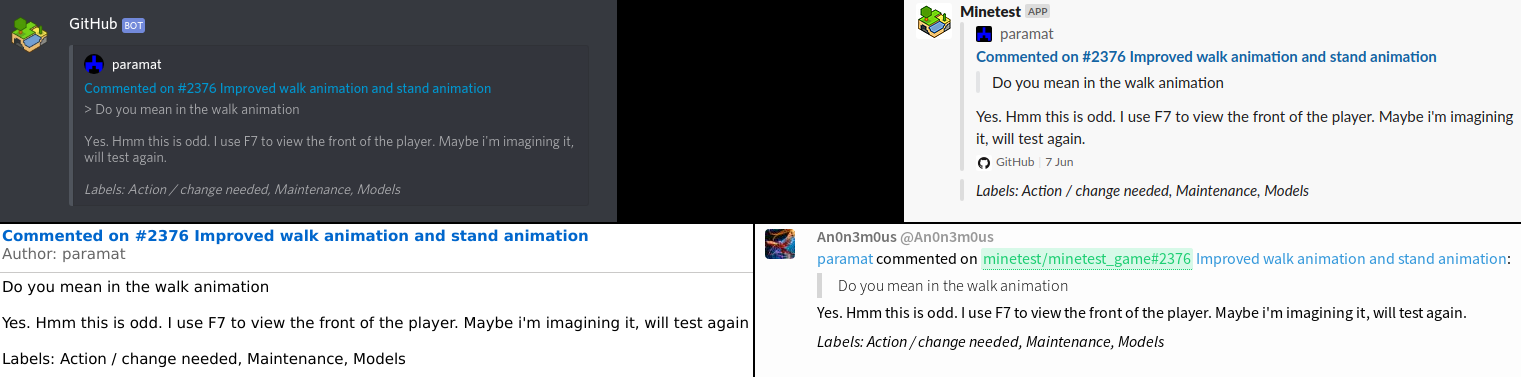
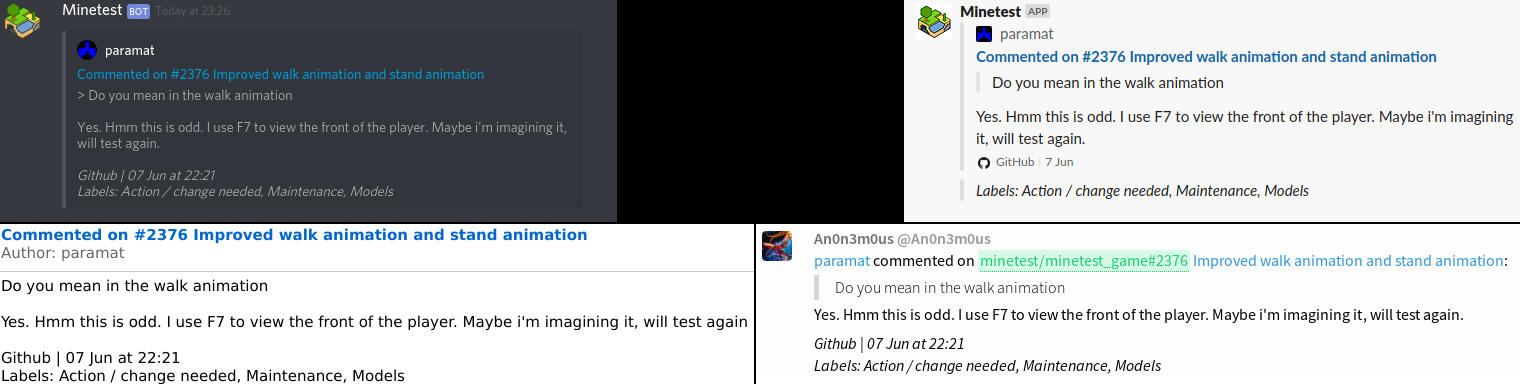
Add timestamp

diff --git a/repoActivity.py b/repoActivity.py
@@ -59,8 +59,8 @@ rss = """<rss version="2.0">
 """
 
 id = 0
-# [0]AuthorName, [1]AuthorLink, [2]AuthorIcon, ([3]Action, [4]ID, [5]Title), [6]TitleLink, ([7]Text, [[8][0]labelsSlack, [8][1]labelsDiscord), [9]TimeCreated, [10]Color
-message = ["", "", "", "", "", "", "", "", ["", ""], 0, ""]
+# [0]AuthorName, [1]AuthorLink, [2]AuthorIcon, ([3]Action, [4]ID, [5]Title), [6]TitleLink, ([7]Text, [[8][0]labelsSlack, [8][1]labelsDiscord), ([9][0]TimestampCreated, [9][1]TimeCreated), [10]Color
+message = ["", "", "", "", "", "", "", "", ["", ""], [0, ""], ""]
 log = 0
 timeGithub = 0
 timeFile = 0
@@ -130,10 +130,11 @@ while True:
 				for i in range(len(issue['labels'])):
 					message[8][0] = message[8][0] + issue['labels'][i]['name'] + ", "
 					message[8][1] = message[8][1] + issue['labels'][i]['name'] + ", "
-				message[8][0] = repr("\\n\\n")[1:-1] + message[8][0][:-2] + "_"
-				message[8][1] = repr("\\n\\n")[1:-1] + message[8][1][:-2] + "*"
+				message[8][0] = repr("\\n")[1:-1] + message[8][0][:-2] + "_"
+				message[8][1] = repr("\\n")[1:-1] + message[8][1][:-2] + "*"
 
-			message[9] = int(time.mktime(datetime.datetime.strptime(issue['created_at'][:-1], "%Y-%m-%dT%H:%M:%S").timetuple()))
+			message[9][0] = int(time.mktime(datetime.datetime.strptime(issue['created_at'][:-1], "%Y-%m-%dT%H:%M:%S").timetuple()))
+			message[9][1] = datetime.datetime.strptime(issue['created_at'][:-1], "%Y-%m-%dT%H:%M:%S").strftime('+%d %b at %H:%M')
 
 		if "IssueCommentEvent" in data[0]['type'] and data[0]['id'] != id and data[0]['payload']['comment']:
 			id = data[0]['id']
@@ -171,10 +172,11 @@ while True:
 				for i in range(len(issue['labels'])):
 					message[8][0] = message[8][0] + issue['labels'][i]['name'] + ", "
 					message[8][1] = message[8][1] + issue['labels'][i]['name'] + ", "
-				message[8][0] = repr("\\n\\n")[1:-1] + message[8][0][:-2] + "_"
-				message[8][1] = repr("\\n\\n")[1:-1] + message[8][1][:-2] + "*"
+				message[8][0] = repr("\\n")[1:-1] + message[8][0][:-2] + "_"
+				message[8][1] = repr("\\n")[1:-1] + message[8][1][:-2] + "*"
 
-			message[9] = int(time.mktime(datetime.datetime.strptime(comment['created_at'][:-1], "%Y-%m-%dT%H:%M:%S").timetuple()))
+			message[9][0] = int(time.mktime(datetime.datetime.strptime(comment['created_at'][:-1], "%Y-%m-%dT%H:%M:%S").timetuple()))
+			message[9][1] = datetime.datetime.strptime(comment['created_at'][:-1], "%Y-%m-%dT%H:%M:%S").strftime('%d %b at %H:%M')
 
 		if "PullRequestEvent" in data[0]['type'] and data[0]['id'] != id:
 			id = data[0]['id']
@@ -225,10 +227,11 @@ while True:
 				for i in range(len(pull['labels'])):
 					message[8][0] = message[8][0] + pull['labels'][i]['name'] + ", "
 					message[8][1] = message[8][1] + pull['labels'][i]['name'] + ", "
-				message[8][0] = repr("\\n\\n")[1:-1] + message[8][0][:-2] + "_"
-				message[8][1] = repr("\\n\\n")[1:-1] + message[8][1][:-2] + "*"
+				message[8][0] = repr("\\n")[1:-1] + message[8][0][:-2] + "_"
+				message[8][1] = repr("\\n")[1:-1] + message[8][1][:-2] + "*"
 
-			message[9] = int(time.mktime(datetime.datetime.strptime(pull['created_at'][:-1], "%Y-%m-%dT%H:%M:%S").timetuple()))
+			message[9][0] = int(time.mktime(datetime.datetime.strptime(pull['created_at'][:-1], "%Y-%m-%dT%H:%M:%S").timetuple()))
+			message[9][1] = datetime.datetime.strptime(pull['created_at'][:-1], "%Y-%m-%dT%H:%M:%S").strftime('%d %b at %H:%M')
 
 		if "PullRequestReviewCommentEvent" in data[0]['type'] and data[0]['id'] != id and data[0]['payload']['comment']:
 			id = data[0]['id']
@@ -267,10 +270,11 @@ while True:
 				for i in range(len(pull['labels'])):
 					message[8][0] = message[8][0] + pull['labels'][i]['name'] + ", "
 					message[8][1] = message[8][1] + pull['labels'][i]['name'] + ", "
-				message[8][0] = repr("\\n\\n")[1:-1] + message[8][0][:-2] + "_"
-				message[8][1] = repr("\\n\\n")[1:-1] + message[8][1][:-2] + "*"
+				message[8][0] = repr("\\n")[1:-1] + message[8][0][:-2] + "_"
+				message[8][1] = repr("\\n")[1:-1] + message[8][1][:-2] + "*"
 
-			message[9] = int(time.mktime(datetime.datetime.strptime(pull['created_at'][:-1], "%Y-%m-%dT%H:%M:%S").timetuple()))
+			message[9][0] = int(time.mktime(datetime.datetime.strptime(review['created_at'][:-1], "%Y-%m-%dT%H:%M:%S").timetuple()))
+			message[9][1] = datetime.datetime.strptime(review['created_at'][:-1], "%Y-%m-%dT%H:%M:%S").strftime('%d %b at %H:%M')
 
 		if "PushEvent" in data[0]['type'] and data[0]['id'] != id:
 			id = data[0]['id']
@@ -291,7 +295,8 @@ while True:
 				commit['message'] = re.sub("#[0-9][0-9]*", code, commit['message'], 1)
 
 			message[7] = repr(str(commit['message']))
-			message[9] = int(time.mktime(datetime.datetime.strptime(event['created_at'][:-1], "%Y-%m-%dT%H:%M:%S").timetuple()))
+			message[9][0] = int(time.mktime(datetime.datetime.strptime(event['created_at'][:-1], "%Y-%m-%dT%H:%M:%S").timetuple()))
+			message[9][1] = datetime.datetime.strptime(event['created_at'][:-1], "%Y-%m-%dT%H:%M:%S").strftime('%d %b at %H:%M')
 
 	slackJson = re.sub("\"author_name\": \"AUTHORNAME\"", "\"author_name\": \"" + message[0] + "\"", slackJson)
 	slackJson = re.sub("\"author_link\": \"AUTHORLINK\"", "\"author_link\": \"" + message[1] + "\"", slackJson)
@@ -304,7 +309,7 @@ while True:
 	else:
 		slackJson = re.sub("\"text\": \"TEXT\"", "\"text\": \"" + repr(message[7])[2:-2].replace("'", "\u0027").replace("No description provided.", "_No description provided._") + "\"", slackJson)
 		slackJson = re.sub("\"text\": \"LABELS\"", "\"text\": \"" + str(message[8][0]) + "\"", slackJson)
-	slackJson = re.sub("\"ts\": TS", "\"ts\": " + str(message[9]), slackJson)
+	slackJson = re.sub("\"ts\": TS", "\"ts\": " + str(message[9][0]), slackJson)
 	slackJson = re.sub("\"color\": \"COLOR\"", "\"color\": \"" + str(message[10]) + "\"", slackJson)
 	slackJson = slackJson.replace("\n", "")
 
@@ -313,13 +318,16 @@ while True:
 	discordJson = re.sub("\"title\": \"TITLE\"", "\"title\": \"" + message[3] + message[4] + message[5] + "\"", discordJson)
 	discordJson = re.sub("\"url\": \"URL\"", "\"url\": \"" + message[6] + "\"", discordJson)
 	if ("IssuesEvent" in data[0]['type'] or "PullRequestEvent" in data[0]['type']) and (data[0]['payload']['action'] == "reopened" or data[0]['payload']['action'] == "closed"):
-		discordJson = re.sub("\"description\": \"DESC\"", "\"description\": \"" + str(message[8][1]) + "\"", discordJson)
+		discordJson = re.sub("\"description\": \"DESC\"", "\"description\": \"" + "*Github | " + message[9][1] + "*" + str(message[8][1]) + "\"", discordJson)
 	else:
-		discordJson = re.sub("\"description\": \"DESC\"", "\"description\": \"" + repr(message[7])[2:-2].replace("'", "\u0027").replace("No description provided.", "*No description provided.*") + str(message[8][1]) + "\"", discordJson)
+		discordJson = re.sub("\"description\": \"DESC\"", "\"description\": \"" + repr(message[7])[2:-2].replace("'", "\u0027").replace("No description provided.", "*No description provided.*") + "\\\\n\\\\n*Github | " + message[9][1] + "*" + str(message[8][1]) + "\"", discordJson)
 	discordJson = discordJson.replace("\n", "")
 
-	gitterJson = re.sub("\"text\":\"\[TITLE\]", "\"text\":\"[" + message[0] + "](" + message[1] + ") " + message[3].lower() + " [" + message[4][1:-1] + "](" + re.findall("https://github.com/minetest/minetest_game/[A-z]*/[0-9][0-9]*", message[6])[0] + ") [" + message[5] + "](" + message[6] + ")", gitterJson)
-	gitterJson = re.sub("TEXT", repr(message[7])[2:-2].replace("'", "\u0027").replace("No description provided.", "_No description provided._") + str(message[8][1]), gitterJson)
+	gitterJson = re.sub("\"text\":\"\[TITLE\]", "\"text\":\"[" + message[0] + "](" + message[1] + ") " + message[3].lower() + " [" + message[4][1:-1] + "](" + re.findall("https://github.com/" + repo + "/[A-z]*/[0-9][0-9]*", message[6])[0] + ") [" + message[5] + "](" + message[6] + ")", gitterJson)
+	if ("IssuesEvent" in data[0]['type'] or "PullRequestEvent" in data[0]['type']) and (data[0]['payload']['action'] == "reopened" or data[0]['payload']['action'] == "closed"):
+		gitterJson = re.sub("TEXT", "\\\\n\\\\n*Github | " + message[9][1] + "*" + str(message[8][1]), gitterJson)
+	else:
+		gitterJson = re.sub("TEXT", repr(message[7])[2:-2].replace("'", "\u0027").replace("No description provided.", "_No description provided._") + "\\\\n\\\\n*Github | " + message[9][1] + "*" + str(message[8][1]), gitterJson)
 	gitterJson = gitterJson.replace("\n", "")
 
 	rss = re.sub("<title>REPOTITLE</title>", "<title>" + repo + "</title>", rss)
@@ -327,9 +335,9 @@ while True:
 	rss = re.sub("<link>REPOLINK</link>", "<link>https://github.com/" + repo + "</link>", rss)
 	rss = re.sub("<title>TITLE</title>", "<title>" + message[3] + message[4] + message[5] + "</title>", rss)
 	rss = re.sub("<link>LINK</link>", "<link>" + message[6] + "</link>", rss)
-	rss = re.sub("\<description\>\<\!\[CDATA\[DESC", "<description><![CDATA[" + message[7].replace("\\n", "<br>").replace("\\r", "")[2:-2].replace("No description provided.", "*No description provided.*") + str(message[8][1].replace("\\\\n", "<br>").replace("*", "")) + "</description>", rss)
+	rss = re.sub("\<description\>\<\!\[CDATA\[DESC", "<description><![CDATA[" + message[7].replace("\\n", "<br>").replace("\\r", "")[2:-2].replace("No description provided.", "*No description provided.*") + "<br><br>Github | " + message[9][1] + "" + str(message[8][1].replace("\\\\n", "<br>").replace("*", "")) + "</description>", rss)
 
-	if message[9] != 0:
+	if message[9][0] != 0:
 		if "slack" in hooks:
 			subprocess.check_output("curl -X POST -H \"Content-type: application/json\" --data '" + slackJson + "' " + slack, shell=True)[:-1]
 		if "discord" in hooks:
@@ -347,5 +355,5 @@ while True:
 		with lastid as lastid_file:
 			lastid_file.write(id)
 
-	message = ["", "", "", "", "", "", "", "", ["", ""], 0, ""]
+	message = ["", "", "", "", "", "", "", "", ["", ""], [0, ""], ""]
 	time.sleep(2.5)
